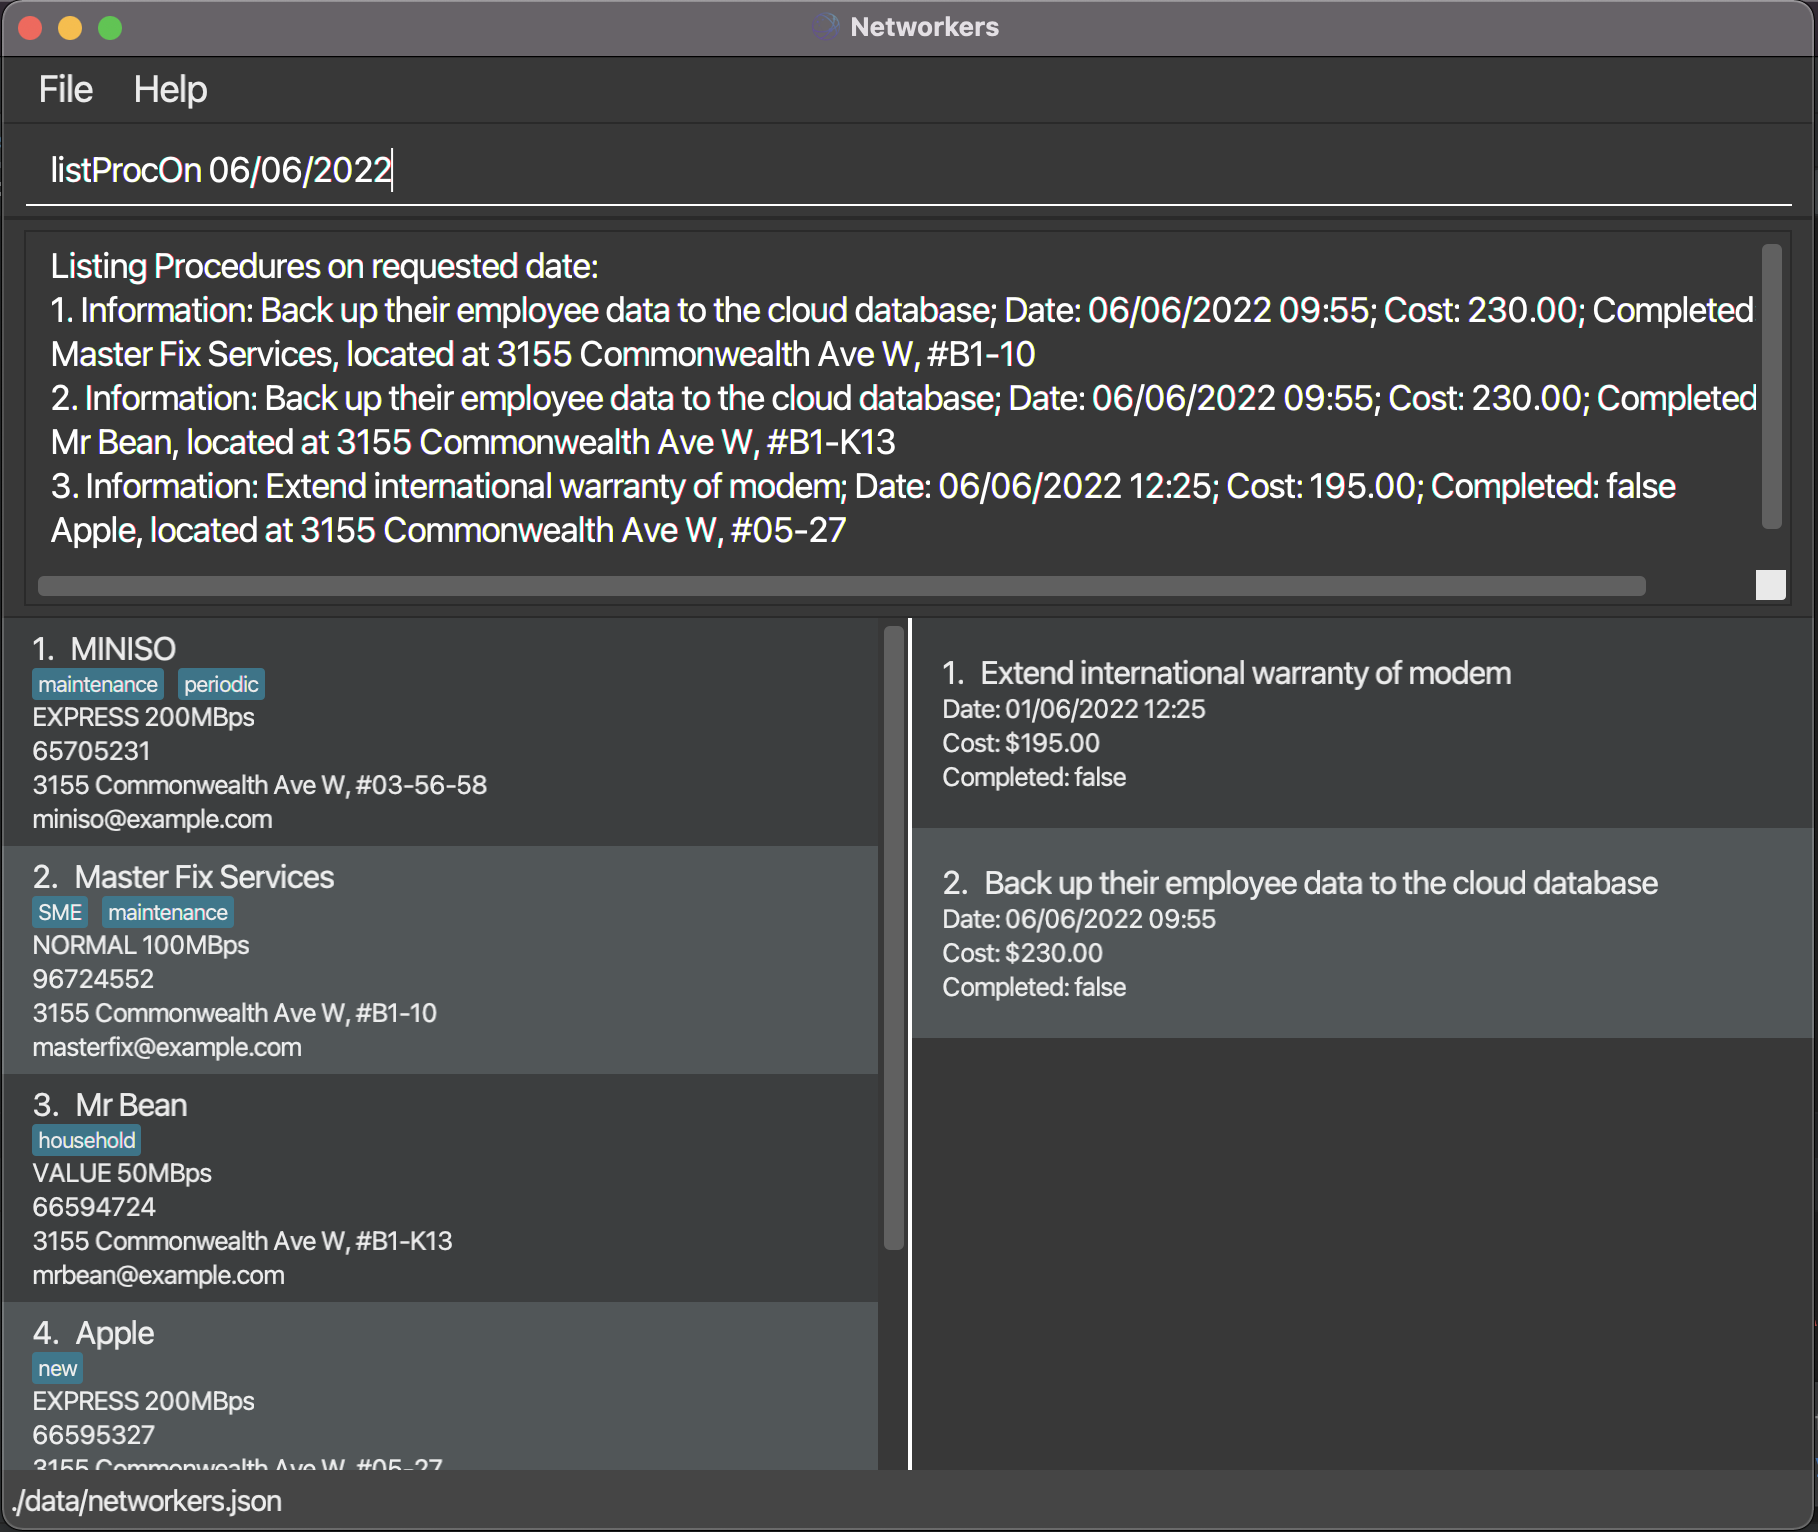
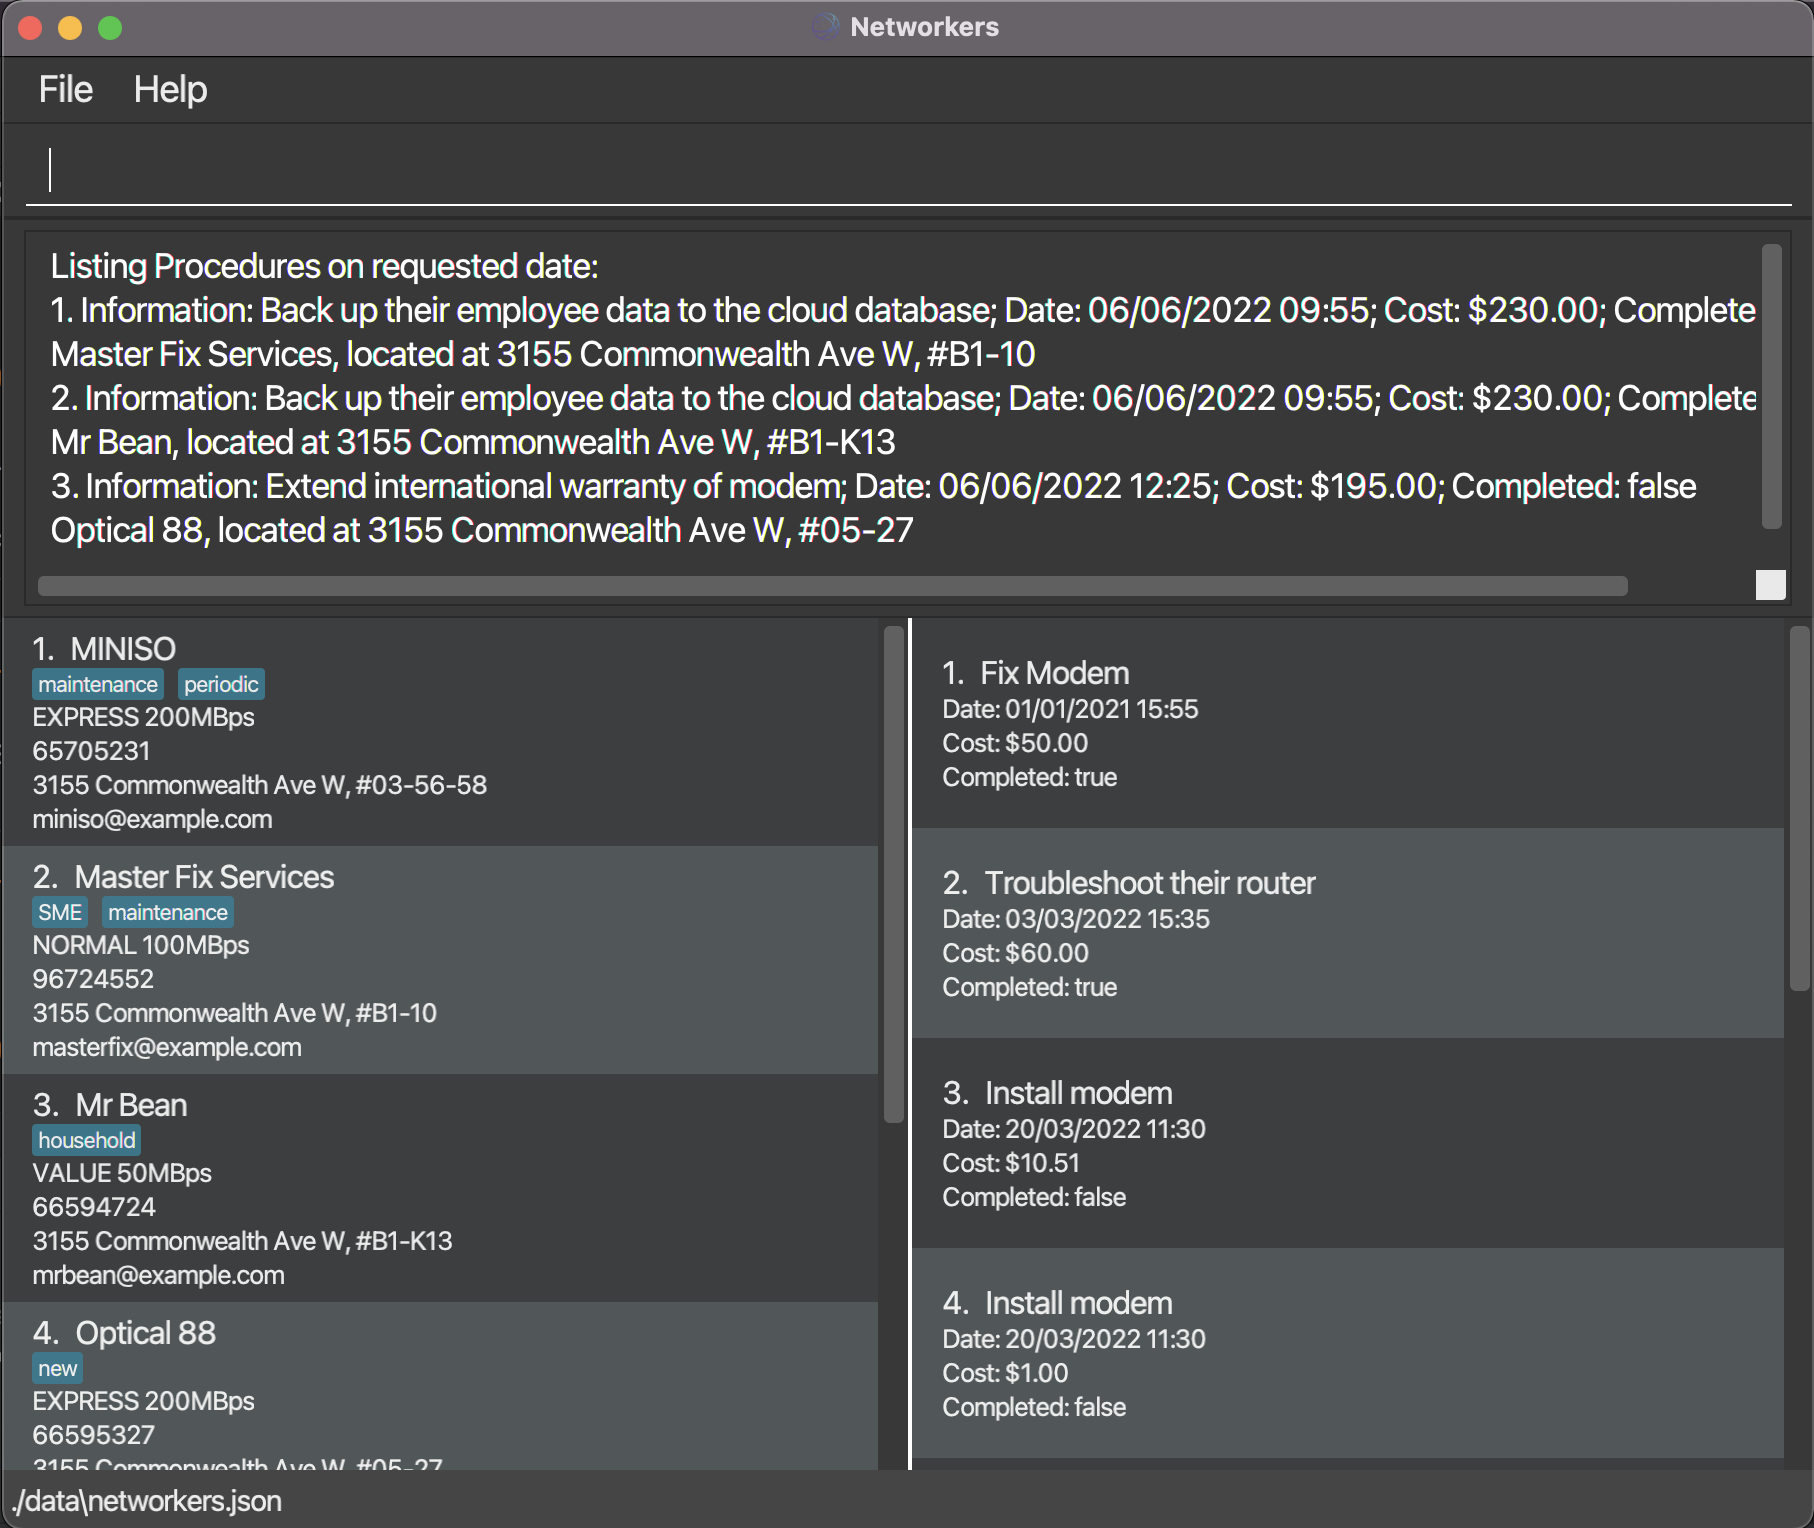
Update screenshot for listProcOn

diff --git a/docs/UserGuide.md b/docs/UserGuide.md
@@ -287,11 +287,14 @@ In Command Line Interface (CLI):
 - `listProcOn 06/06/2022`
   - Result shows: 
 ```
-  Listing Procedures on requested date:
-  1. Information: configure internet settings; Date: 26/03/2022 11:30; Cost: 10.50; Completed: false
-   MINISO, located at 3155 Commonwealth Ave W, #03-56-58
-  2. Information: configure POS connections; Date: 26/03/2022 12:00; Cost: 23.50; Completed: false
-   Master Fix Services, located at 3155 Commonwealth Ave W, #B1-10
+Listing Procedures on requested date:
+1. Information: Back up their employee data to the cloud database; Date: 06/06/2022 09:55; Cost: $230.00; Completed: false
+Master Fix Services, located at 3155 Commonwealth Ave W, #B1-10
+2. Information: Back up their employee data to the cloud database; Date: 06/06/2022 09:55; Cost: $230.00; Completed: false
+Mr Bean, located at 3155 Commonwealth Ave W, #B1-K13
+3. Information: Extend international warranty of modem; Date: 06/06/2022 12:25; Cost: $195.00; Completed: false
+Optical 88, located at 3155 Commonwealth Ave W, #05-27
+
 ```
 > :bulb: **Tip:** You can enlarge the result box by enlarging the window vertically!
 
